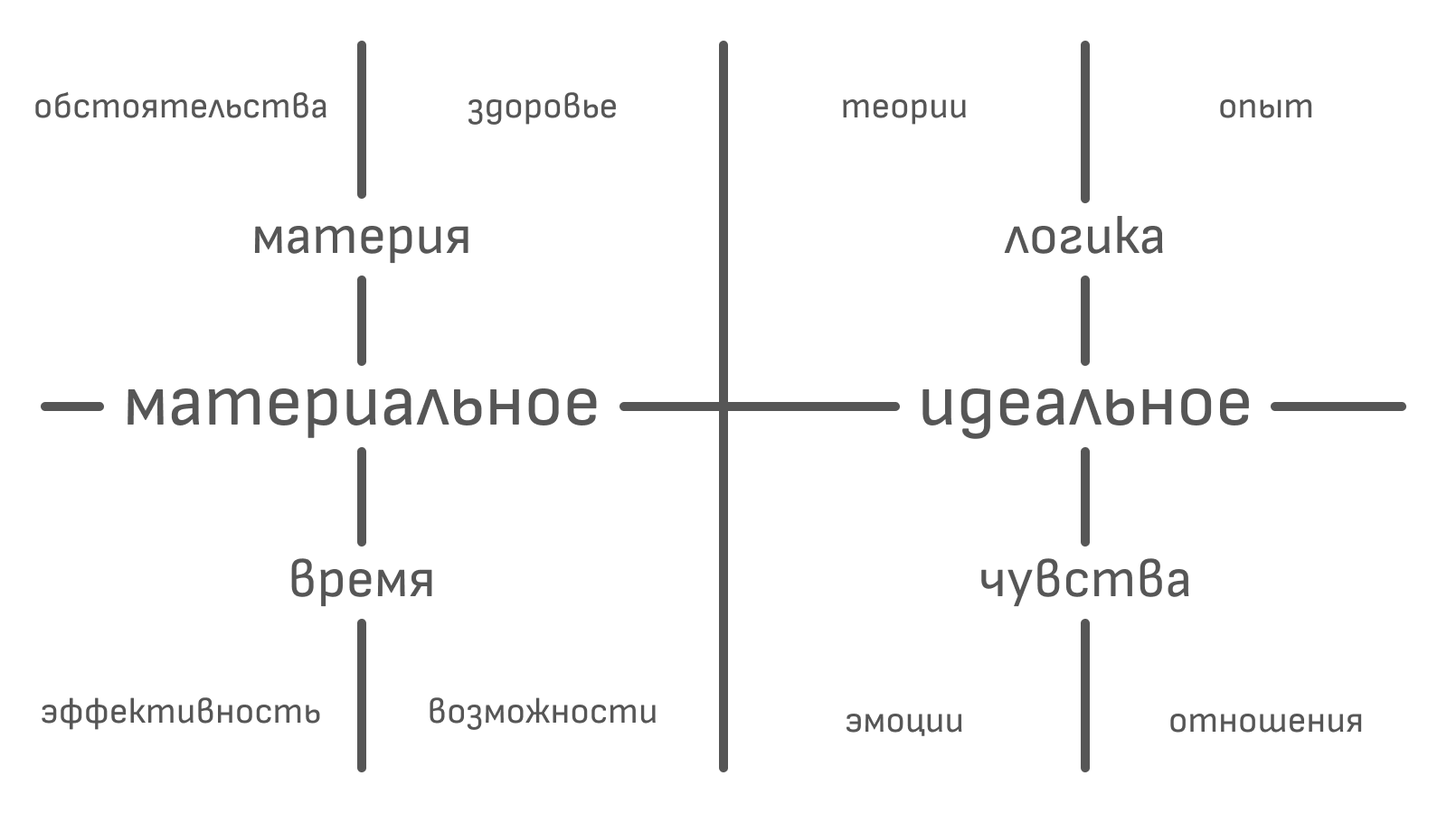
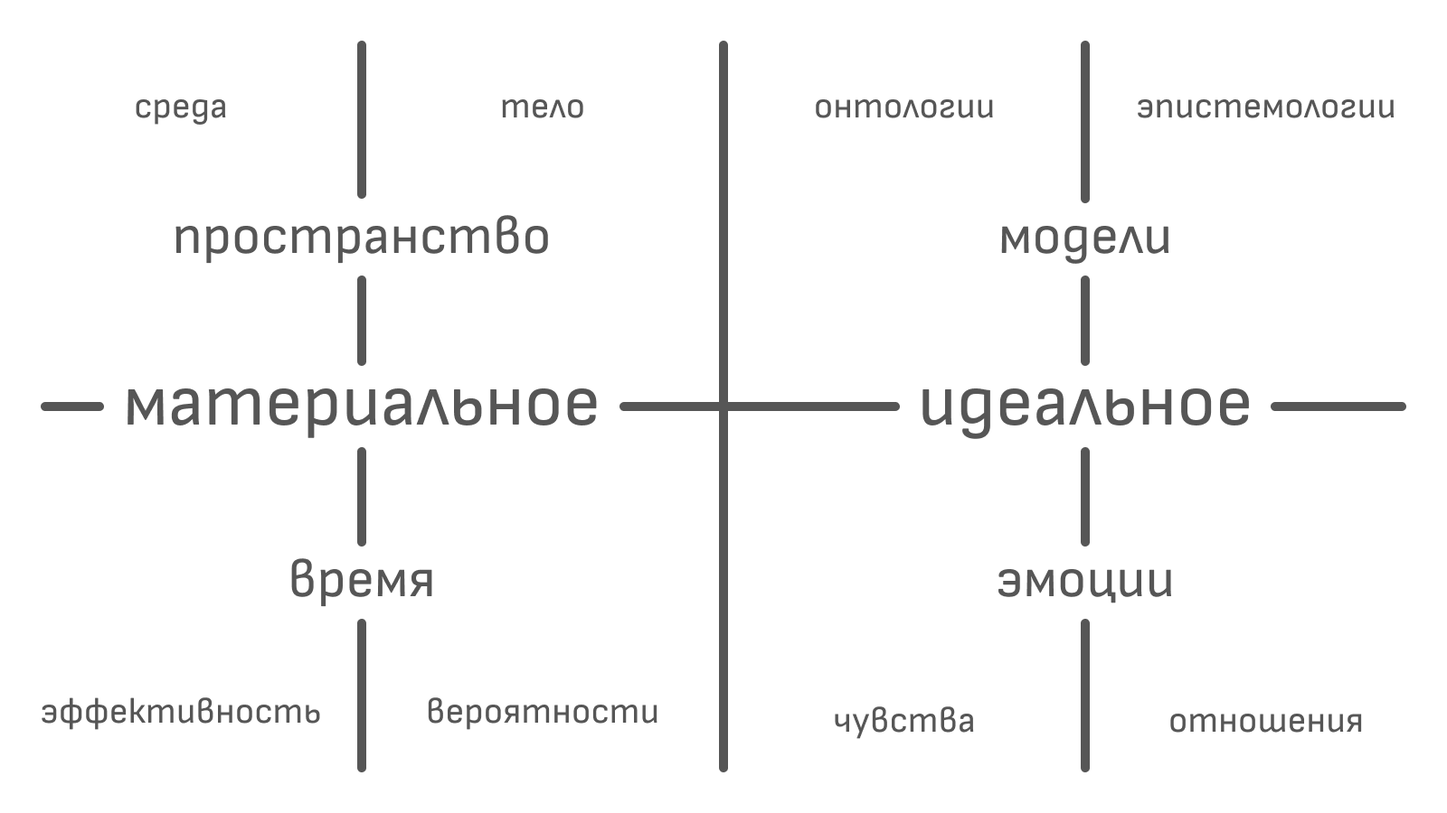
update happiness

diff --git a/content/happiness.md b/content/happiness.md
@@ -1,86 +1,90 @@
-**Счастье** — это мера положительных эмоций в единицу времени. Давайте ясности рассмотрим два следующих графика:
+**Счастье** — это интегральная величина положительных эмоций на единицу времени. Для тех, кто забыл, что такое интеграл, проще говоря, это площадь, покрываемая под функцией. Давайте рассмотрим два следующих графика для наглядности:
 
 <p style="text-indent: 0;"><img style="width: 100%;" src="/img/happiness-01.png" /></p>
 
-Синий график — это отображение эмоционального состояния обычного человека во времени, а красный — наркозависимого. На них мы прекрасно видим, что да, наркоман испытывает более яркиее эмоциональные переживания в некоторые моменты, но потом его эмоции стремятся к негативу, в то время как у обычного человека график более сглаженный. Если мы просуммируем область области под графиками, то станет ясно, что обычный человек за тоже самое время был более счастлив.
+Синий график — это отображение эмоционального состояния обычного человека во времени, а красный — наркозависимого. На них мы прекрасно видим, что да, наркоман испытывает более яркиее эмоциональные переживания в некоторые моменты, но потом его эмоции стремятся к негативу, в то время как у обычного человека график более сглаженный. Для того чтобы оценить, кто из них наиболее счастлив, нам нужно получить площадь под ними и сравнить её. Площадь значений ниже нуля оценивается как отрицательная и вычитается из результата. Нетрудно определить, что синий график, несмотря на отсутствие значительных скачков, покрывает большую площадь. Это означает, что в данном примере обычный человек более счастлив.
 
-Также из представления данной концепции счастья становится понятно, что счастье это не какая-то отдельная точка во времени, это процесс в ходе которого в конкретный момент времени вы можете быть в очень подавленном настроении, однако это не значит, что вы не живёте счастливую жизнь в целом. Так что, если вы не умираете от рака, то колоть вам морфий нецелесообразно.
+Отдельно стоит отметить, так как человек способен испытывать смешанные эмоции, то это значит, что реальная величина будет складываться из некоторого числа таких графиков одновременно.
 
-Отдельно стоит отметить, что так как человек способен испытывать смешанные эмоции, то это значит, что данная величина будет складываться из некоторого числа таких графиков одновременно.
+К сожалению, у нас нет прибора или метода, который бы объективно измерял интенсивность эмоций в моменте. Однако даже так мы можем сделать закономерные выводы, вытекающие из этого представления.
 
-Закономерный вопрос: а что вызывает наши эмоции? Распространённым мифом является идея того, что наши эмоции управляются гормонами, но на самом деле это не так. Если вам вколоть адреналин, вам не станет страшно. Ваш адреналин вырабатывается потому, что вам страшно. Если вам вколоть кортизол, вы не начнёте испытывать стресс и напряжение. Это кортизол вырабатывается потому, что вы испытываете стресс и напряжение. Эндорфины не вызывают ощущения счастья, они сокращают выработку ГАМК, который подавляет выработку дофамина. Да, действительно дофамин может вызывать ощущения эйфории, но от того он не становится “гормоном счастья”, так как несёт огромное количество функций для организма, а центр удовольствий может стимулироваться сигналами самого мозга. С серотонином похожая история – если в вас увеличить выработку серотонина, то помимо радости ваши тревоги также возрастут. Его более корректно сравнивать с бензином, от него не зависит куда машина поедет.
+1. Невозможно ответить, счастлив человек или нет в моменте, так как даже если сейчас он переживает негативное событие, например утрату родственника, это не значит, что в целом позитивные состояния не превалируют в его жизни.
+1. Единственный возможный способ в принципе дать определение, счастлив человек или нет, — это определить, в каком состоянии он находится чаще всего. Если большую часть времени человек в хорошем расположении духа, а грустит о жизни только в пятницу по вечерам, пребывая в самокопании, то вполне вероятно, что он счастлив.
+1. Поиски счастья должны быть направлены на улучшение общего эмоционального фона. Достижение цели путём тотальных страданий будет невыгодно, потому что эйфория от достигнутого результата продлится недолго из-за [гедонистической адаптации](https://en.wikipedia.org/wiki/Hedonic_treadmill).
+1. Чем длиннее счастливая жизнь, тем лучше. Поэтому использование наркотических веществ, укорачивающих её, может быть целесообразно только при наличии смертельных болезней. Также большинство эйфоретиков не имеет смысла, так как они снижают чувствительность рецепторов и ухудшают качество жизни в долгосрочной перспективе.
 
-Таким образом, мы можем заключить, что эмоции переживаются на уровне нейронов, но если в работе нейронов что-то нарушается, это может повлечь за собой негативные эмоции без реальных внешних причин. Так, например, если вам не повезло получить большое депрессивное расстройство, ваш уровень счастья будет низок не потому, что вокруг вас всё плохо, а из-за конкретных негативных процессов в работе мозга. Из этого возникает вопрос: так, может быть, нам не нужно ничего достигать, а просто использовать наркотики? Главная проблема наркотиков – это даже не их вред организму. Если предположить, что мы найдём способ, скажем, стимулировать центр удовольствий через электроды, то это приведёт к существенному изменению наших мотиваций. Для человека не будет смысла заботиться о своём существовании, если есть возможность получать удовольствие легко и просто. Таким образом, мы просто деградируем как вид, если начнём пользоваться стимуляцией в обход реальных потребностей. Наши потребности были заложены эволюцией не просто так, а ради нашего собственного выживания, возможно, если когда-то в будущем о нас будет заботиться искусственный интеллект, а всю работу выполнять роботы, то такое наркотическое существование будет уместно, но в настоящее время это не так. С другой стороны, мы могли бы поощрять человека к выгодному для общества поведению через какие-нибудь нейроинтерфейсы, подчинив его волю на благо общества, но вряд ли кто-то пойдёт на это добровольно.
+Следующий закономерный вопрос: а как, собственно, добиться максимума положительных эмоций? Конечно, можно углубляться в нейробиологию и попытаться найти ответ в ней, исходя из потребностей, заложенных в мозг природой. Но мы пойдём другим путём, по причине того, что человек в принципе может оценивать как благо или вред любые вещи, поскольку все они являются частью этой игры в жизнь.
 
-Более разумный путь получения удовольствия от жизни – это удовлетворять свои потребности и следить за здоровьем своего мозга и психики. Существует три основных вида потребностей, выделенные нейрофизиологами:
-1. Витальные:
-    * Голод;
-    * Жажда;
-    * Безопасность;
-    * Гомеостаз (дыхание, сон, оптимальное кровяное давление и тд) ;
-    * Груминг (умывание, вылизывание, вычёсывание);
-    * Экономия энергии (лень);
-1. Зоосоциальные:
-    * Половое поведение;
-    * Родительское поведение;
-    * Поведение направленное от детёныша к матери;
-    * Доминирование;
-    * Территориальное поведение;
-    * Сопереживание;
-1. Саморазвитие:
-    * Поисковое поведение;
-    * Двигательное подражание;
-    * Рефлексы свободы;
-    * Игровое поведение.
+Стоит понять, что, вне зависимости от наших целей, для повышения вероятности их достижения нам приходится стремиться к экспансии ресурсов. При этом под ресурсом может подразумеваться абсолютно всё, что может повлиять на результат. Даже если ваша единственная задача — пускать блинчики по озеру, то не будет лишним владеть этим озером и иметь огороженную территорию, чтобы никто не мог вам помешать. Затем вдруг выяснится, что из-за изменений климата ваше озеро может высохнуть, а значит, потребуются ресурсы для восстановления в нём воды и так далее.
 
-Одной из самых малоизученных потребностей является не входящая в этот список потребность в эстетике. Известно, что данная потребность формируется как противоположная отвращению реакция и, соответственно, обрабатывается в том же отделе мозга, что и например запах тухлятины. А именно – в островковой доле. Но нельзя сказать, что эта оценка относится только к пищевым программам, так как реакция отвращения может вызываться увиденными увечьями или даже быть реакцией на аморальное поведение.
+Итак, чтобы провести ревизию абсолютно всех ресурсов, нам понадобятся две вещи: метод дихотомий и теория множеств. Метод дихотомий — это отличный инструмент, позволяющий нам ничего не упустить, так как он делит любое множество на две части, и если мы знаем об одной, то автоматически знаем и о другой. Единственная сложность данного метода — провести границу таким образом, чтобы она давала самодостаточные группы объектов. Например, если вы захотите разделить все цвета на группы, выделение красного цвета разделит всё множество на красный и не красный, то есть все остальные, что является слабоинформативным. Но мы всё же попробуем.
 
-Потребности имеют разную выраженность у разных людей, поэтому невозможно создать одну идеальную жизнь для всех. К тому же потребности могут противоречить друг другу. Потребность, которая захватила поведение человека, в науке называется доминирующей. И в единственный момент времени выполняется как правило одна. Однако человеческое общество очень сложное и выполнение одного действия может удовлетворять сразу или в будущем несколько потребностей. Это создаёт такой логический конструкт как мотивация. Например, мотивация работать позволяет нам получать статус в обществе, удовлетворяет витальные потребности – покупать за деньги жилплощадь, расширяя свою территорию, и т.д. Это ставит вопрос: какие существуют экзистенциальные источники счастья, придерживаясь которых мы сможем удовлетворить свои потребности по максимуму.
+За стартовую точку возьмём понятие универсума — это такое множество, в которое по определению входят абсолютно все возможные объекты.
 
-Для того чтобы удовлетворить все наши потребности нам нужны ресурсы. Ресурс — это всё, что используется для достижения цели. Для того чтобы проводить анализ и подсчёт ресурсов, нам нужно их конкретизировать. А чтобы не потерять ни один ресурс, будем использовать метод дихотомий.
+Первой дихотомией будет разделение на материальный мир и нематериальный, иначе говоря, мир сознания, в котором существуют такие вещи, как математика, чувства, воображение и т.д. В философии он определяется как мир идеального. Эти две группы объектов не пересекаются и взаимоисключают друг друга, что соответствует методу дихотомий. Продолжим углубляться дальше, пока не получим более конкретные множества.
 
-Первая дихотомия — это материальный и идеальные пространства. Таким образом мы проводим чёткую границу между действительностью где находятся такие вещи как ваш дом, телефон, ваш организм и миром идей, куда также относится наши мысли, принципы цели и тд.
+Весь материальный мир можно представить для человеческого понимания как четырёхмерное пространство, где три измерения отвечают за объём, а четвёртое — это вектор времени. Исходя из этого, мы легко можем провести дихотомию между пространством и временем.
 
-Дихотомия материального мира — это материя и время. Опытные физики могут возразить, что есть ещё такая субстанция как поля. Но в рамках данной концепции мы будем считать, что они являются частью материи.
+Далее нам нужно поделить пространство, так как мы говорим о ресурсах в контексте  человека, то вполне разумным будет разделит пространство на его тело и среду в которой это самое тело находятся.
 
-Дихотомия идеального мира это логика и чувства. Логика в данном случае подразумевает любое описание действительности или гипотетического, в то время как чувства пораждают оценку этих конструктов.
+Для материального мира осталось разбить понятие времени. Поскольку течение времени непрерывно, чтобы его как-то разделить, нам придётся ввести самую базовую единицу — событие. Для любого события в пространстве-времени можно задать две основные характеристики: это расстояние во времени и вероятность его возникновения. Это удобно, поскольку нам нужно разделить время на две части, и в результате у нас выделяются две группы: эффективность (характеризующая расстояние во времени) и вероятность.
 
-Дихотомия материи — это внутренняя материя человека, по большей части это его здоровье, и внешняя материя для простоты назовём её обстоятельствами.
+Итак, мы добрались до категорий мира идеального. Скорее всего, уже сейчас становится сложно держать всю эту картину в голове, но позже мы её визуализируем. Сейчас главное — понять, где проходят границы множеств.
 
-Дихотомия времени — это эффективность и возможности. Эффективность — это то с какой скоростью мы можем получить нечто конкретное, а возможности — это что мы вообще можем получить.
+Мир идеального можно разделить на две категории: модели и оценку этих моделей. Модель — это любое представление, которые можно вообразить, а оценка этих моделей — это наши эмоции, возникающие в ответ на эти представления.
 
-Дихотомия логики — это наше сознательное и безсознательное представление о принятии решения. То есть к сознательному относятся конкретные модели, предположения, расчёты, в то время как безсознательное это наша интуиция, те процессы, которые происходят либо на автомате, либо вне нашего прямого контроля.
+Модели, которые описывают наши представления о реальном мире, относятся к области философии, называемой эпистемологией. Это знания и убеждения о том, как устроен мир. В то же время, существуют модели, описывающие структуры, существующие сами по себе — они относятся к онтологии. Позднее мы приведём эти понятия к более понятным и практичным терминам.
 
-Дихотомия чувств — это наши внутреннии переживания эмоции и наши отношения во взаимодействии с другими людьми.
+Эмоции человека можно было бы разделить на положительные и отрицательные, но гораздо интереснее провести деление на эмоции, направленные на субъектов, и эмоции, направленные на объекты, поскольку мы, люди, существа социальные. Эмоции, направленные на других людей, обозначим как отношения, а те, что направлены на всё остальное, — как чувства.
 
-Таким образом мы можем выделить обозначить 8 основных ресурсов:
+Итого, у нас складывается следующая картина:
 
 <p style="text-indent: 0;"><img style="width: 100%;" src="/img/happiness-02.png" /></p>
 
-Конечно, каждый из них можно делить и дальше, но этим мы займёмся в соответствующих главах. Прежде чем как ресурсы отражены в экзистенциальных конструктах, стоит понять, что в момент достижения цели, мы всегда используем все ресурсы одновременно. Давайте рассмотрим на простом примере похода за хлебом.
+Таким образом мы получили 8 изолированных множеств, в рамках которых можем рассматривать их и углубляться в них:
 
-1. Здоровье. У нас должно быть здоровье, чтобы дойти до магазина.
-1. Обстоятельства. У нас должны быть деньги, чтобы купить хлеб.
-1. Эффективность. У нас должно быть достаточно времени для похода в магазин.
-1. Возможности. У нас должен быть хотя бы один магазин.
-1. Теория. У нас должны быть представления о купле продаже.
-1. Опыт. Успех в этом деле зависит от того делаем мы это в первый раз или нет.
-1. Эмоции. Если не будет чувства голода, вряд ли мы захотим это делать.
-1. Отношения. Другие люди должны позволить нам это сделать, если поссориться с продавщицей могут возникнуть проблемы.
+* среда;
+* тело;
+* эффективность;
+* вероятности;
+* онтологии;
+* эпистемологии;
+* чувства;
+* отношения.
 
-Ещё один момент, который стоит уточнить это гонка за ресурсами ради ресурсов, так например мы зарабатываем деньги, чтобы их тратить, если вы зарабатываете только чтобы денег было больше вы будете в вечной погоне за счастьем, но не будет того момента, когда вы проживаете жизнь здесь и сейчас. Это справедливо и для других ресурсов.
+Однако сейчас эти понятия выглядят сухими и малозначимыми. Чтобы они приобрели аксиологический (ценностный) оттенок, нам нужно задать им вектор. А как мы помним, вектор — это направление экспансии тех самых ресурсов. Преобразуем эти понятия таким образом, чтобы каждое из них стало определённой ценностью. Заранее оговоримся, что сделать это идеально не получится, поскольку они слишком строгие, а реальный мир не настолько идеален, чтобы перенести их на него как кальку. Пожертвуем точностью в угоду практичности.
 
-Теперь давайте свяжем ресурсы с чем-то более понятным для мотивации человека, данный трактат выделяет следующий список:
+Преобразовать понятие среды, пожалуй, сложнее всего, так как среда является основой наших возможностей: она содержит других людей, с которыми у нас есть отношения, и многое другое. Если рассматривать наше взаимодействие со средой максимально директивно, то можно использовать понятие «власть». Например, мы можем взять деньги и купить что-либо — деньги выступают инструментом власти, хотя сам конструкт денег и понятие владения чем-либо сугубо социальные. Тем не менее, власть как ценность — это, пожалуй, наиболее подходящее понятие, в рамках которого мы можем оценивать свои ресурсы и влияние на среду вокруг нас.
 
-1. Гармония. Она соотносится с внутренними чувствами, гармоничные эмоции дают как более счастливую жизнь в целом так и ресурс для достижения чего-то нового;
-1. Близость. Отношения бывают разные, но здесь будет упор именно на те что делают человека более счастливым;
-1. Безопасность. Стремление к безопасности очевидно связана с нашим здоровьем;
-1. Жизненный путь. Возможно, кому-то было бы понятнее слово самореализация, но его минус в том, что оно заставляет человека думать, что он может быть реализован или нет, но наша жизнь это процесс, а не единственная точка;
-1. Приключения. Это способ найти более удачные пути, а значит сэкономить время для достижения целей, что относится к эффективности;
-1. Свобода. Само определение свободы — это максимум возможностей;
-1. Эстетика. Наше проживание эстетики не является сознательным процессом, само проявления эстетики доносит до нас смыслы окольными путями;
-1. Вера. Здесь подразумевается не религиозная вера. А наше мировоззрение, те теории которые объясняют нам этот мир и дают понять как в нём лучше действовать.
+С телом дела обстоят гораздо проще. Наше тело как ресурс, очевидно, обладает здоровьем — неким запасом прочности, от которого зависит наше пребывание в этом мире. Однако если немного расширить это понятие, его можно обозначить как безопасность. Расширение данных ценностных категорий не столь опасно, как их сужение, ведь именно при сужении мы рискуем упустить что-то важное из виду.
+
+Повышение эффективности как вектор развития можно обозначить понятием приключения. На первый неопытный взгляд может показаться, что эти понятия никак не связаны. Однако на самом деле приключение — это поиск нового пути к цели. Например, Колумб хотел открыть более короткий (эффективный) торговый путь в Индию и отправился в путешествие. Он рисковал ничего не найти, но ему повезло. Даже если вы отправляетесь в авантюру, заранее не зная, что вас ждёт, вы всё равно прокладываете новые пути к будущим событиям.
+
+Вероятность и её почти синоним — возможность — тесно связаны с понятием свободы. Чем больше у вас возможностей, тем больше у вас свободы. Простой пример: сравнение человека, заключённого под стражу, и обычного. У одного есть возможность выйти из дома, хотя не факт, что он ею воспользуется, а у другого такой возможности нет. Следовательно, чем больше у нас возможностей, тем мы более свободны.
+
+Онтологии в нашем случае — это структуры, не имеющие прямого отношения к материальному миру. Но какой нам от них прок? Они проявляются в таких направлениях, как красота и искусство. Музыка, например, может не нести никакой смысловой нагрузки, но мы воспринимаем в ней структуру звуков, а не просто случайный шум, что и делает её особенной. Таким образом, ценностное понятие для онтологий — это эстетика.
+
+Эпистемология — это основа нашего мировоззрения. Трудно отрицать, что любопытство присуще человеку, что отлично демонстрирует, как даже при всей абстрактности этих понятий мы видим их проявление в стремлениях человека.
+
+Чувства по отдельности мало что значит, когда мы рассматриваем их в контексте системы ведущей человека к счастью, то мы неизбежно прийдём к такому понятию как гармония. Гармоничность — это отсутствие противоречий в системе, сложно быть счастливым если одни эмоции говорят, что нужно обожраться тортиками, а другие что нужно быть стройным чтобы нравиться другим людям.
+
+И наконец, остались наши отношения с людьми. Расширим это понятие до двустороннего взаимодействия, так как отношения к другим людям мало что значат, если они не взаимны. Отношения как положительный ресурс можно обозначить как близость, чтобы охватить такие разносторонние понятия, как дружба, любовь и семья. Однако в таком случае мы упускаем негативные отношения, такие как конфликты. Чтобы не забыть об этом, будем рассматривать конфликты в рамках понятия приключений, ведь, как правило, именно там они и возникают.
+
+Готово, мы задали аксиологический вектор всем видам ресурсов и получили следующие ценности:
+
+* власть;
+* безопасность;
+* приключения;
+* свобода;
+* эстетика;
+* мировоззрение;
+* гармония;
+* близость.
+
+Для наглядности отобразим эти группы на схеме:
 
 <p style="text-indent: 0;"><img style="width: 100%;" src="/img/happiness-03.png" /></p>
 
-Как говорилось ранее, мотивации могут конфликтовать друг с другом, так например для кого-то потребность в безопасности будет важнее чем тяга к приключениям, реализация своей значимости важнее свободы и т.д. Но зато подобной представление в виде дихотомий даёт нам полное описание всех возможных потребностей и именно они будут разобранны в данном трактате.
+Мы выделили такие ценности, которые охватывают весь универсум и включают любое возможное описание, сделанное людьми, без исключений. Разумеется, для каждого человека проявление этих ценностей будет разным. К примеру, в рамках одной и той же свободы желаемые свободы могут отличаться у разных людей. Также ресурсы могут вступать в конфликты между собой: получение власти может снижать нашу безопасность, гармония с самим собой может разрушать отношения с окружающими и т.д. Таким образом, счастье становится результатом разумного распределения ресурсов.
+
+Полученная нами в этой главе схема послужит каркасом для всего последующего трактата. А также позволит вам произвести ревизию этих ресурсов и после чего не только расширить их, но и проложить осмысленному путь к их балансу.
